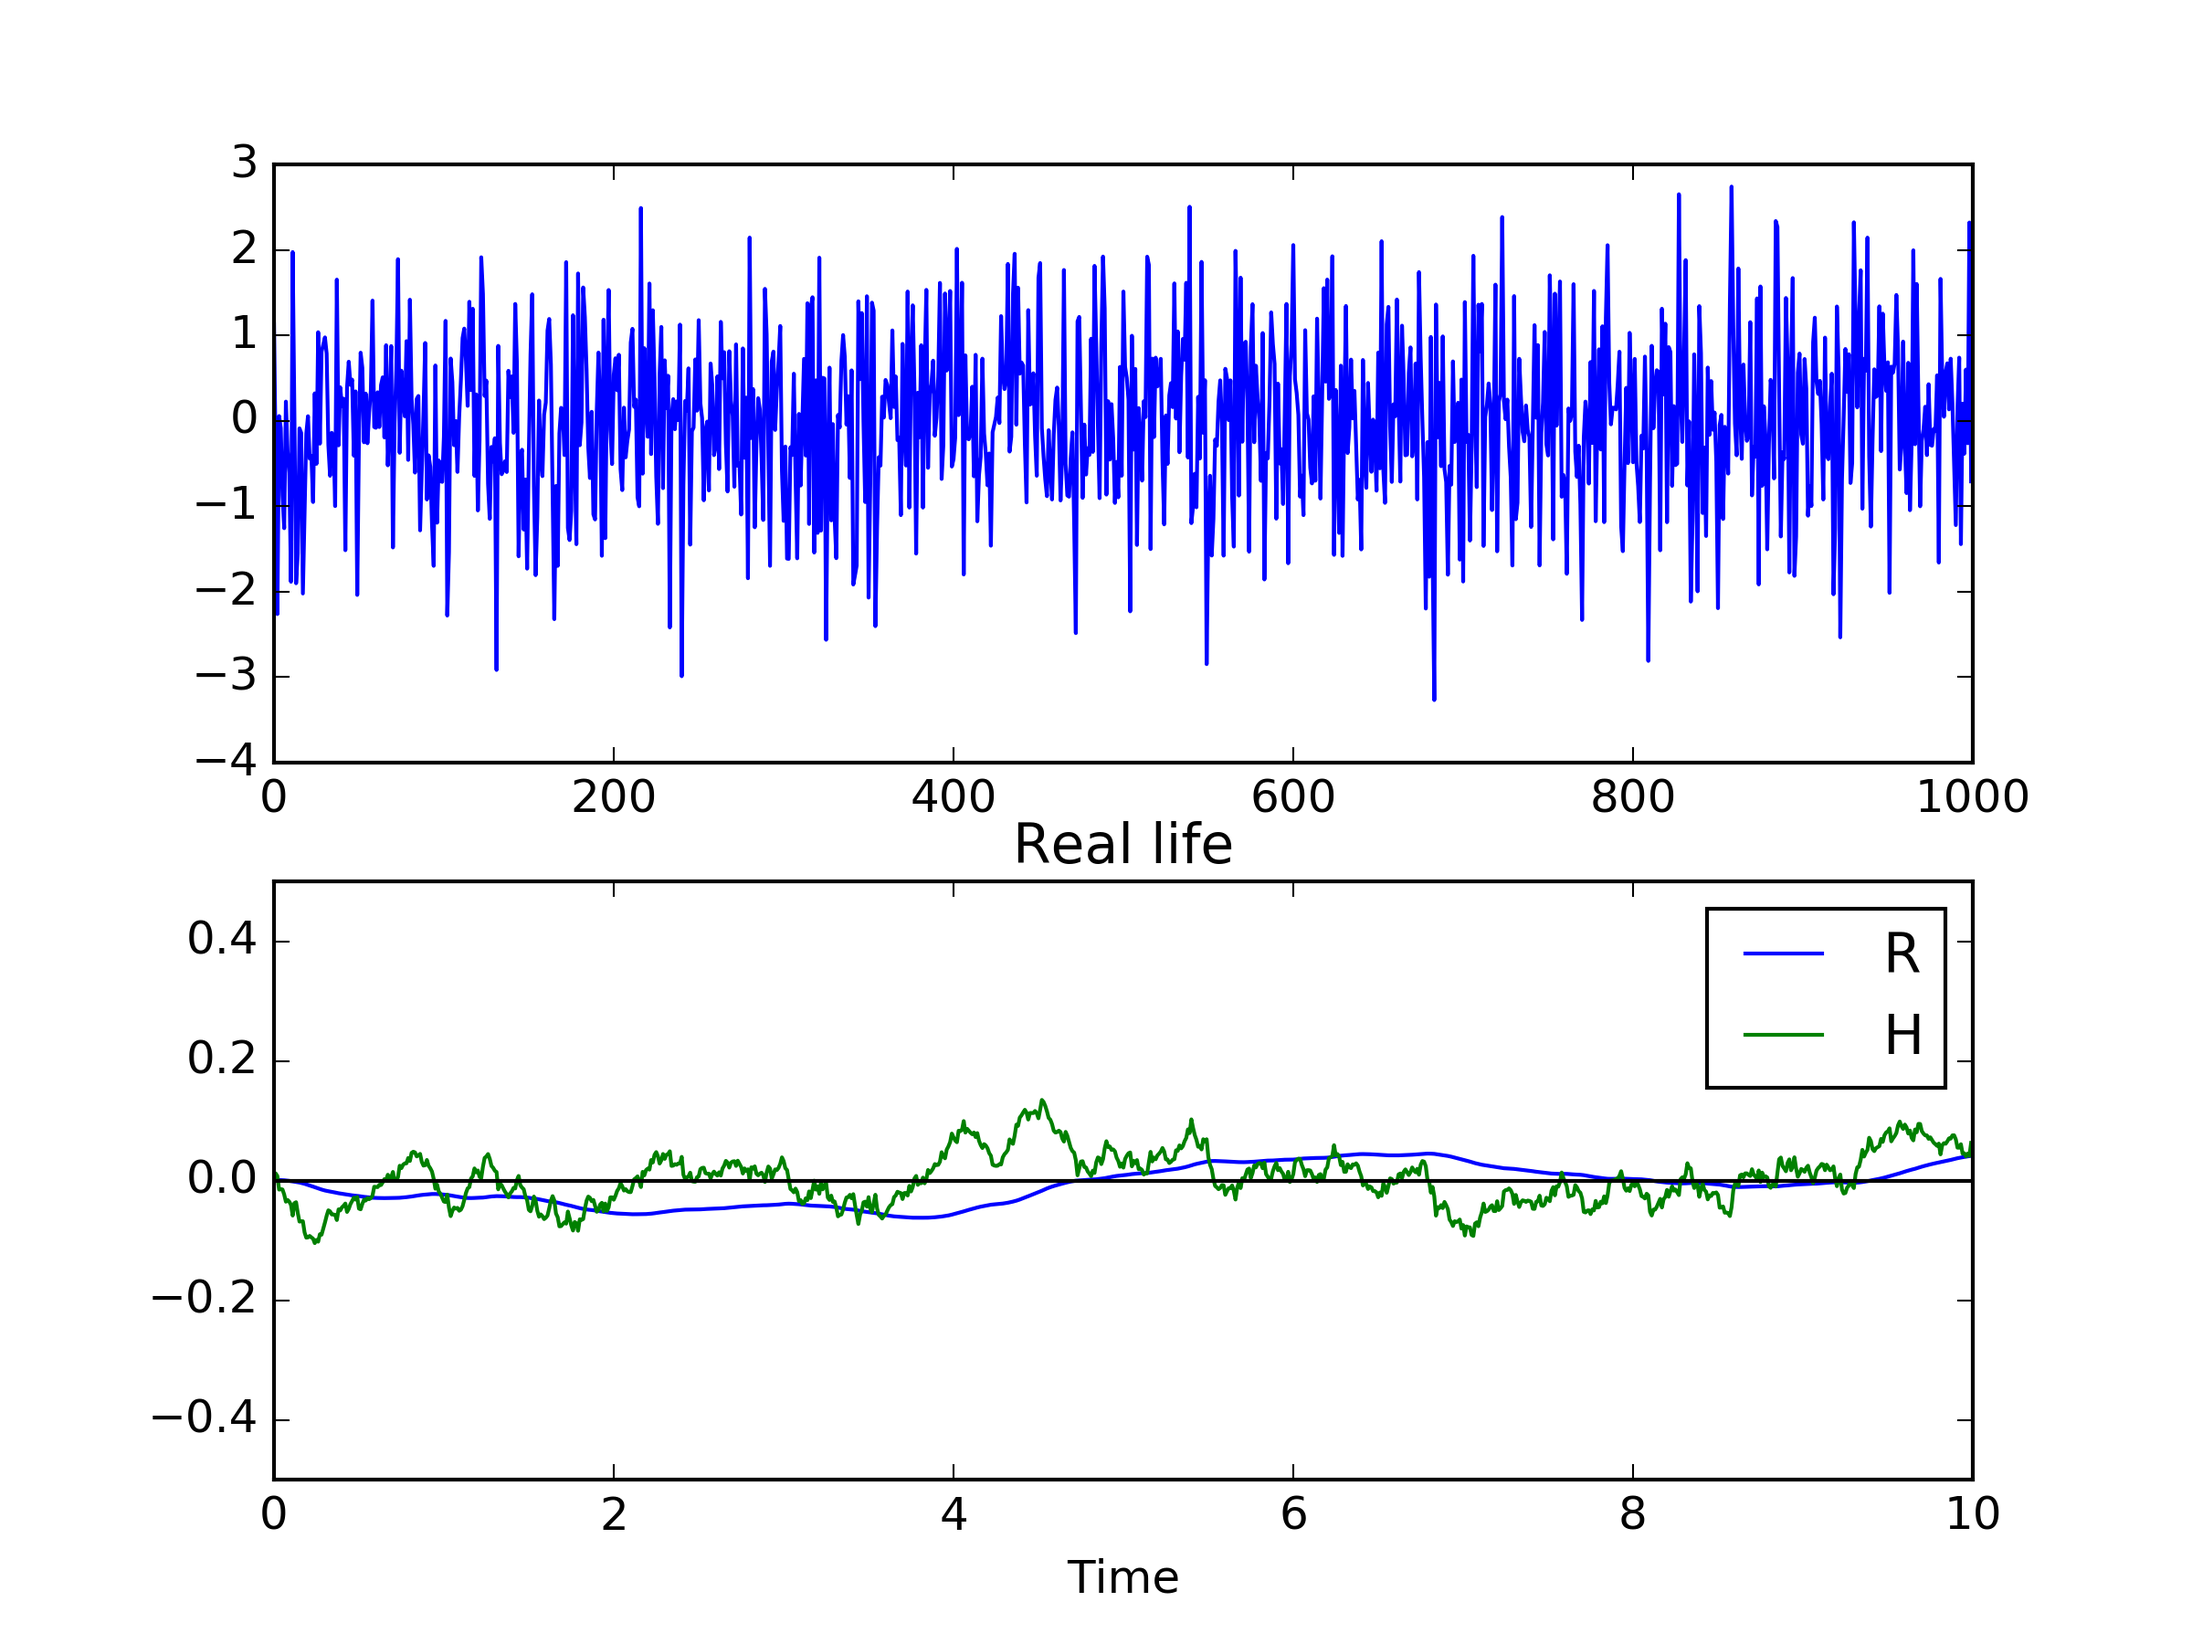
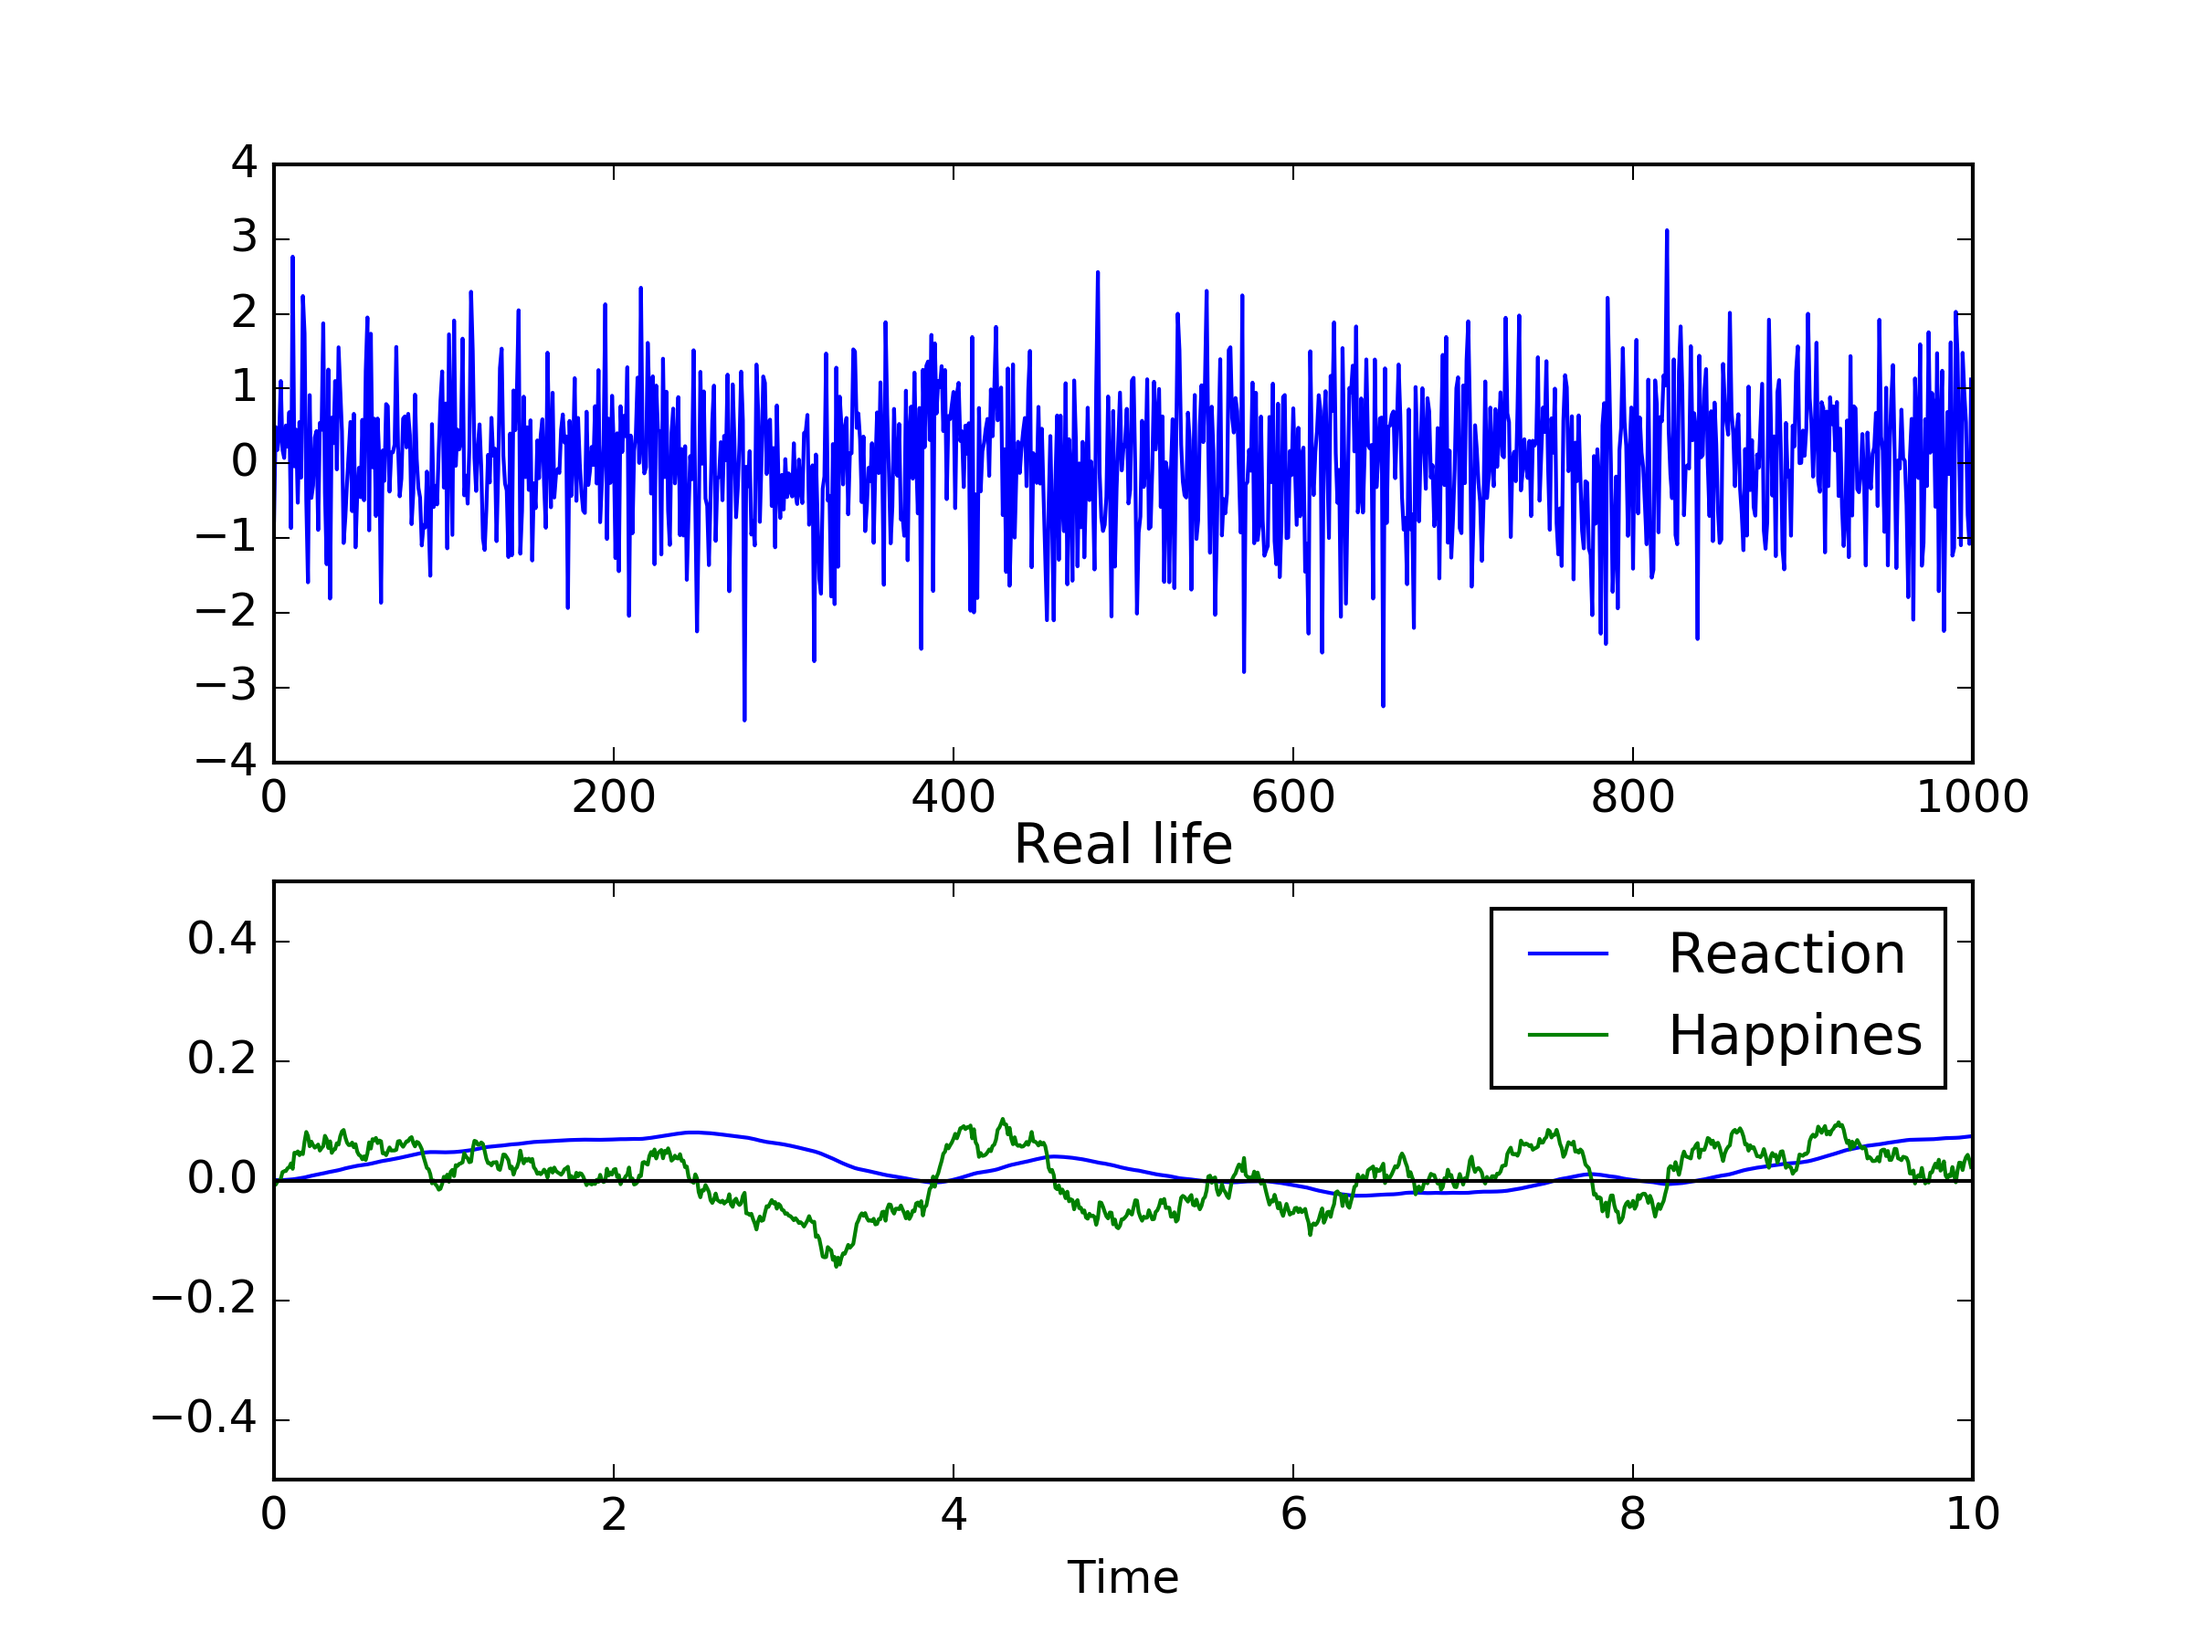
real plots fix

diff --git a/real.py b/real.py
@@ -31,7 +31,7 @@ p.plot(t1, realSol)
 p.axhline(0, color='black')
 p.ylim([-0.5, 0.5])
 p.xlabel('Time')
-p.legend(('R', 'H'))
+p.legend(('Reaction', 'Happines'))
 p.title('Real life')
 p.savefig('Real Life.png', dpi=300)  #  uncomment to save plots
 p.show()
